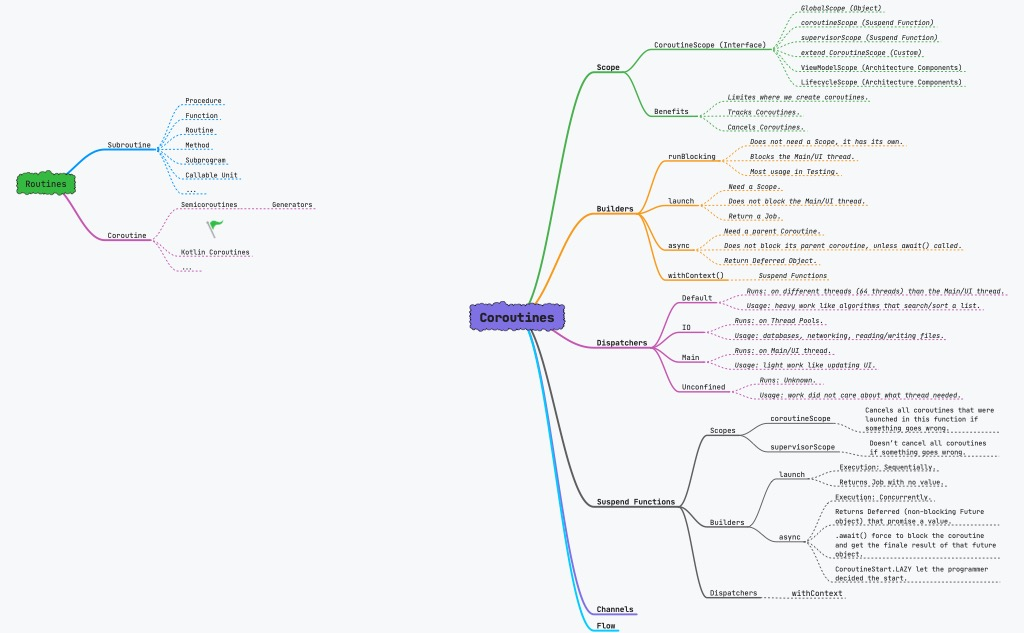
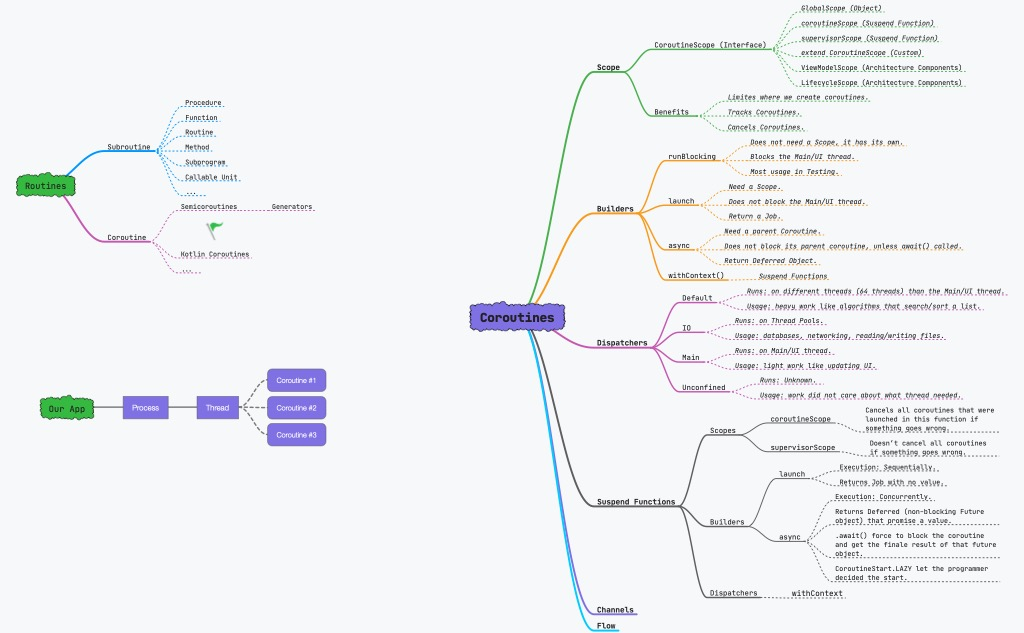
Add where coroutine lives

diff --git a/README.md b/README.md
@@ -2,23 +2,14 @@
 A Mindmap abstracting Kotlin Coroutines.
 
 ## Overview
-Coroutines implemented in Kotlin language as a first-party library. For writing asynchronous code (non-blocking), also it provides other ways to achieve  concurrency.
-
-
-# Download
-This repository containes files that explained Coroutines Library in Kotlin as a mind-mapping:
-
-**Source File (MindNode for Mac App):**
-> https://github.com/
-
-**PDF:**
-> https://github.com/
-
+This repository contains files that explains Coroutines Library in Kotlin as a mind-mapping using MindNode App for Mac. Coroutines implemented in Kotlin language as a first-party library for writing asynchronous code (non-blocking), also it provides other ways to achieve  concurrency.
 
 ## Version
 Kotlin Coroutines: **1.3**
 
 ## Preview
+This preview is automatically generated for the mindmap source file.
+
 ![Kotlin Coroutines](../master/files/mindmapsourcefile.mindnode/QuickLook/Preview.jpg "Kotlin Coroutines")
 
 ## Subjects
@@ -38,10 +29,15 @@ Kotlin Coroutines: **1.3**
 ## 1. Origin of Coroutine
 A Coroutine is another part from Routines, while the other part was subroutine. First appears in 1963 in paper titled "Design of a Separable Transition-Diagram Compiler" by Melvin Conway, and content an explanation for it as follows:
 
-`The coroutine approach to the same problem accomplishes the switching job implicitly by use of the subroutine calling sequence. When Coroutines A and B are connected so that A sends items to B, B runs for a while until it encounters a read command, which means it needs something from A. Then control is transferred to A until it wants to "write," whereupon control is returned to B at the point where it left off.`
+> The coroutine approach to the same problem accomplishes the switching job implicitly by use of the subroutine calling sequence. When Coroutines A and B are connected so that A sends items to B, B runs for a while until it encounters a read command, which means it needs something from A. Then control is transferred to A until it wants to "write," whereupon control is returned to B at the point where it left off.
 
 ![Origin of Coroutine](../master/files/originofcoroutine.png "Origin of Coroutine")
 
+
+## 2. Where Coroutines Lives
+Whenever we create a coroutine it lives inside a threads.
+
+![Coroutines Lives](../master/files/coroutinelives.png "Coroutines Lives")
 
 
 #### References
